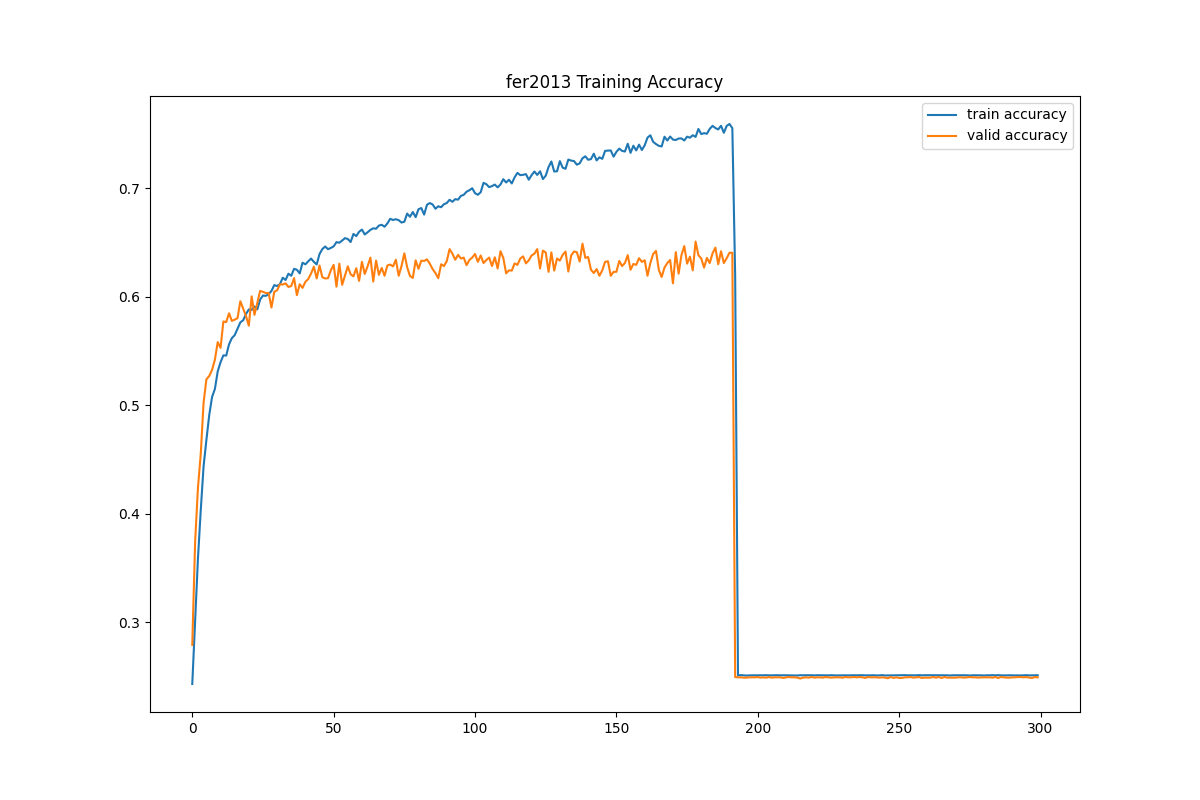
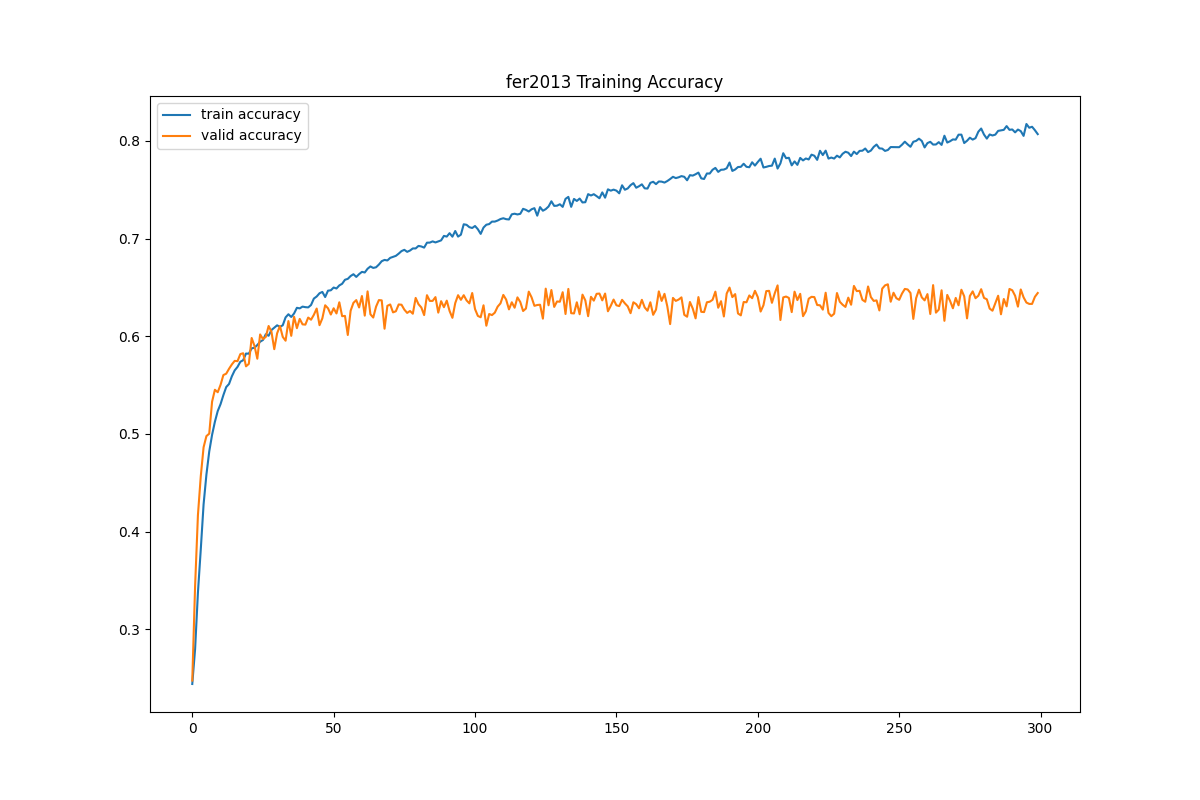
v1.1.0

diff --git a/src/train.py b/src/train.py
@@ -17,7 +17,7 @@ from model import CNN
 from visualize import plot_loss, plot_acc
 
 parser = argparse.ArgumentParser()
-parser.add_argument("--dataset", type=str, default="jaffe", help="dataset to train, fer2013 or jaffe or ck+")
+parser.add_argument("--dataset", type=str, default="fer2013", help="dataset to train, fer2013 or jaffe or ck+")
 parser.add_argument("--epochs", type=int, default=300)
 parser.add_argument("--batch_size", type=int, default=32)
 parser.add_argument("--plot_history", type=bool, default=True)
